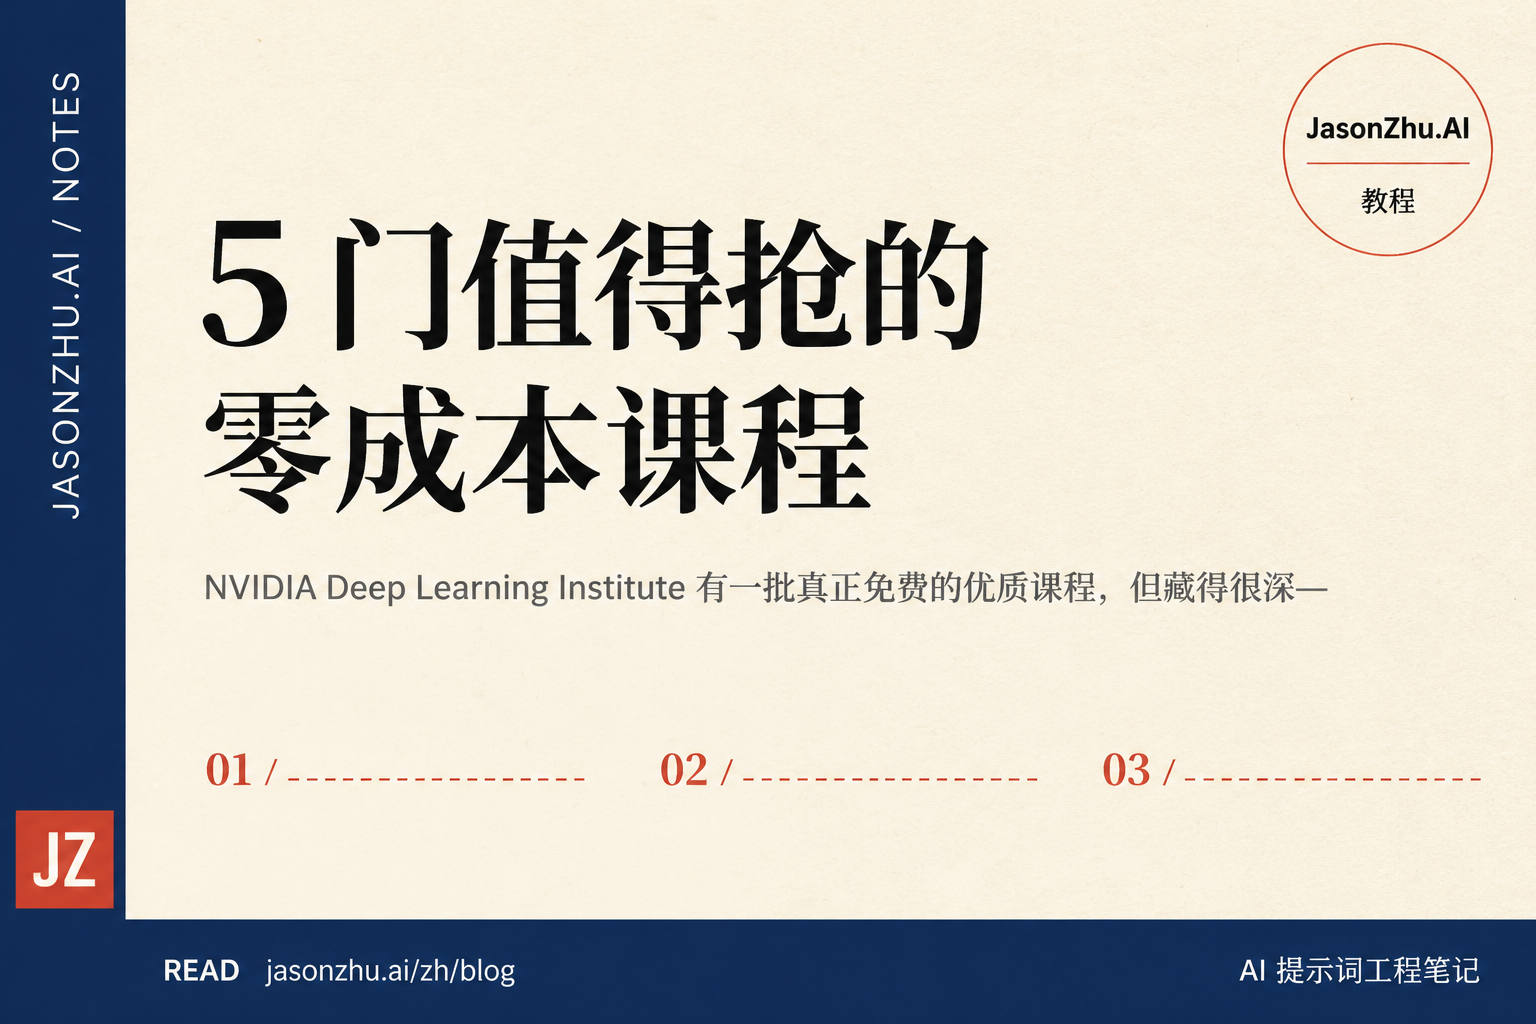
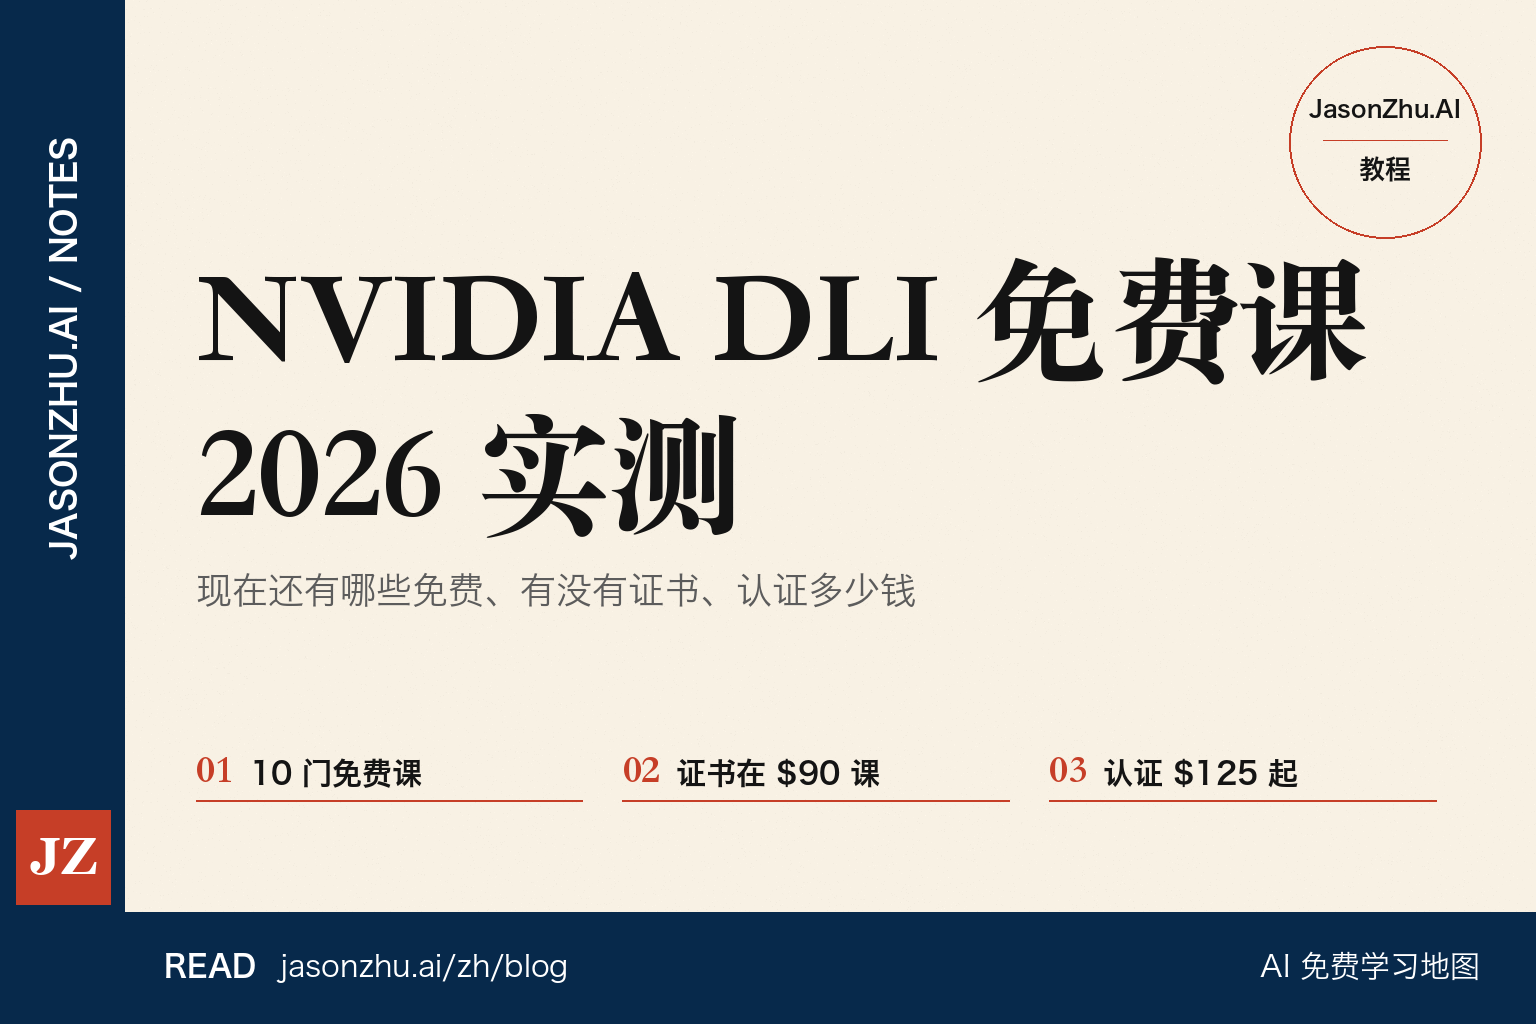
feat: NVIDIA DLI 新封面（中/英各一张）+ 英文版支持单独封面
- scripts/render-blog-cover.py：按站内封面视觉直接排版，文字准确、不花生图费；底部三格放真实要点
- .en.md frontmatter 可填 coverImage，英文页 hero 和 OG 图用英文封面

diff --git a/src/lib/mdx.ts b/src/lib/mdx.ts
@@ -28,7 +28,7 @@ export function getAllPosts(): BlogPostMeta[] {
 }
 
 /** Return a single post with full content loaded from disk.
- *  lang="en" 且存在 <slug>.en.md 时返回英文版（title/excerpt 同步覆盖），否则回退中文。 */
+ *  lang="en" 且存在 <slug>.en.md 时返回英文版（title/excerpt/coverImage 同步覆盖），否则回退中文。 */
 export function getPostBySlug(slug: string, lang?: "zh" | "en"): BlogPost | undefined {
   const meta = allPostsMeta.find((p) => p.slug === slug);
   if (!meta) return undefined;
@@ -43,6 +43,7 @@ export function getPostBySlug(slug: string, lang?: "zh" | "en"): BlogPost | unde
       ...meta,
       title: en.title || meta.title,
       excerpt: en.excerpt || meta.excerpt,
+      coverImage: en.coverImage || meta.coverImage,
       content: en.content,
     };
   }

diff --git a/scripts/render-blog-cover.py b/scripts/render-blog-cover.py
@@ -1,0 +1,110 @@
+#!/usr/bin/env python3
+"""按站内封面视觉系统（深蓝侧栏 + 米色纸底 + 宋体大标题 + 红色圆章）直接排版出封面，文字 100% 准确、不花生图费。
+
+generate-blog-cover.mjs 用 AI 生图，字常常变形、底部「01 / ----」是空占位；这个脚本用于需要准确文字的封面。
+用法：python3 scripts/render-blog-cover.py spec.json
+spec.json：{"out": "public/blog/<slug>/cover.png", "lang": "zh"|"en", "headline": ["第一行", "第二行"],
+            "subtitle": "...", "points": ["要点1", "要点2", "要点3"], "stamp": "教程", "footer_right": "..."}
+依赖 macOS 自带字体（Songti / Hiragino / Georgia）。
+"""
+import json
+import random
+import sys
+
+from PIL import Image, ImageDraw, ImageFont, ImageFilter
+
+W, H = 1536, 1024
+NAVY, PAPER, RED, INK, GREY = (7, 41, 75), (248, 241, 228), (198, 62, 39), (20, 20, 20), (92, 92, 92)
+SIDE, BOTTOM = 124, 912
+SONGTI = "/System/Library/Fonts/Supplemental/Songti.ttc"
+HIRA = "/System/Library/Fonts/Hiragino Sans GB.ttc"
+GEORGIA_B = "/System/Library/Fonts/Supplemental/Georgia Bold.ttf"
+
+
+def font(path, size, index=0):
+    return ImageFont.truetype(path, size, index=index)
+
+
+def fit(draw, text, path, start, max_w, index=0, min_size=40):
+    size = start
+    while size > min_size and draw.textlength(text, font=font(path, size, index)) > max_w:
+        size -= 4
+    return font(path, size, index)
+
+
+def render(spec):
+    en = spec.get("lang") == "en"
+    im = Image.new("RGB", (W, H), PAPER)
+    # 纸张颗粒：轻微噪点，避免纯色太「电子」
+    rnd = random.Random(7)
+    px = im.load()
+    for _ in range(60000):
+        x, y = rnd.randrange(W), rnd.randrange(H)
+        d = rnd.randint(-7, 4)
+        r, g, b = px[x, y]
+        px[x, y] = (r + d, g + d, b + d)
+    im = im.filter(ImageFilter.GaussianBlur(0.4))
+    d = ImageDraw.Draw(im)
+
+    # 侧栏 + 底栏
+    d.rectangle((0, 0, SIDE, H), fill=NAVY)
+    d.rectangle((0, BOTTOM, W, H), fill=NAVY)
+    # 竖排品牌字
+    tag = Image.new("RGBA", (520, 60), (0, 0, 0, 0))
+    ImageDraw.Draw(tag).text((0, 6), "JASONZHU.AI / NOTES", font=font(HIRA, 34, 2), fill=(255, 255, 255))
+    tag = tag.rotate(90, expand=True)
+    im.paste(tag, (40, 520 - tag.size[1] + 40), tag)
+    # JZ 角标
+    d.rectangle((16, 810, 110, 904), fill=RED)
+    jz = font(GEORGIA_B, 52)
+    tw = d.textlength("JZ", font=jz)
+    d.text((63 - tw / 2, 826), "JZ", font=jz, fill=(255, 255, 255))
+
+    # 红色圆章
+    cx, cy, r = 1385, 142, 96
+    d.ellipse((cx - r, cy - r, cx + r, cy + r), outline=RED, width=2)
+    f1 = font(HIRA, 23, 2)          # Georgia 太宽会顶出圆章
+    t1 = "JasonZhu.AI"
+    d.text((cx - d.textlength(t1, font=f1) / 2, cy - 46), t1, font=f1, fill=INK)
+    d.line((cx - 62, cy - 2, cx + 62, cy - 2), fill=RED, width=1)
+    f2 = font(HIRA, 26, 2) if not en else font(GEORGIA_B, 24)
+    d.text((cx - d.textlength(spec["stamp"], font=f2) / 2, cy + 14), spec["stamp"], font=f2, fill=INK)
+
+    # 大标题
+    x0, y = 196, 228
+    for line in spec["headline"]:
+        f = fit(d, line, GEORGIA_B if en else SONGTI, 132 if not en else 120, 1180 if en else 1240, index=0)
+        d.text((x0, y), line, font=f, fill=INK)
+        y += int(f.size * 1.18)
+
+    # 副标题
+    fs = fit(d, spec["subtitle"], HIRA, 36, 1240, index=0, min_size=24)
+    d.text((x0, y + 34), spec["subtitle"], font=fs, fill=GREY)
+
+    # 三个要点（取代 AI 封面里空着的 01/02/03 占位）
+    py, col = 742, (W - x0 - 60) / 3
+    fn, ft = font(SONGTI, 40, 0), font(HIRA, 30, 2)   # Georgia 是旧式数字（3 会下沉），编号用宋体
+    for i, p in enumerate(spec["points"][:3]):
+        px0 = x0 + i * col
+        num = f"0{i + 1}"
+        base = py + 42                  # 编号和文字按同一条基线对齐（字体不同，按顶部对齐会高低不齐）
+        d.text((px0, base), num, font=fn, fill=RED, anchor="ls")
+        nx = px0 + d.textlength(num, font=fn) + 16
+        d.text((nx, base), p, font=ft, fill=INK, anchor="ls")
+        d.line((px0, py + 58, px0 + col - 40, py + 58), fill=RED, width=2)
+
+    # 底栏文字
+    fb, fr = font(HIRA, 30, 2), font(HIRA, 30, 0)
+    d.text((164, 950), "READ", font=fb, fill=(255, 255, 255))
+    d.text((164 + d.textlength("READ", font=fb) + 24, 950), spec.get("footer_url", "jasonzhu.ai/en/blog" if en else "jasonzhu.ai/zh/blog"),
+           font=fr, fill=(255, 255, 255))
+    right = spec["footer_right"]
+    d.text((W - 56 - d.textlength(right, font=fr), 950), right, font=fr, fill=(255, 255, 255))
+
+    im.save(spec["out"], optimize=True)
+    print("✓", spec["out"])
+
+
+if __name__ == "__main__":
+    for s in json.load(open(sys.argv[1])):
+        render(s)

diff --git a/src/content/blog/nvidia-dli-free-courses.en.md b/src/content/blog/nvidia-dli-free-courses.en.md
@@ -1,4 +1,5 @@
 ---
+coverImage: "/blog/nvidia-dli-free-courses/cover-en.png"
 title: "NVIDIA DLI Free Courses (2026): What's Still Free, Certificates, and Best Picks"
 excerpt: "Is NVIDIA Deep Learning Institute free? Partly. I re-checked the whole DLI catalog in October 2026: the 10 courses that are free right now, which ones give a certificate, what the $30/$90 courses and $125 certification exams cost, and the free open-source deep learning course most guides miss."
 ---
